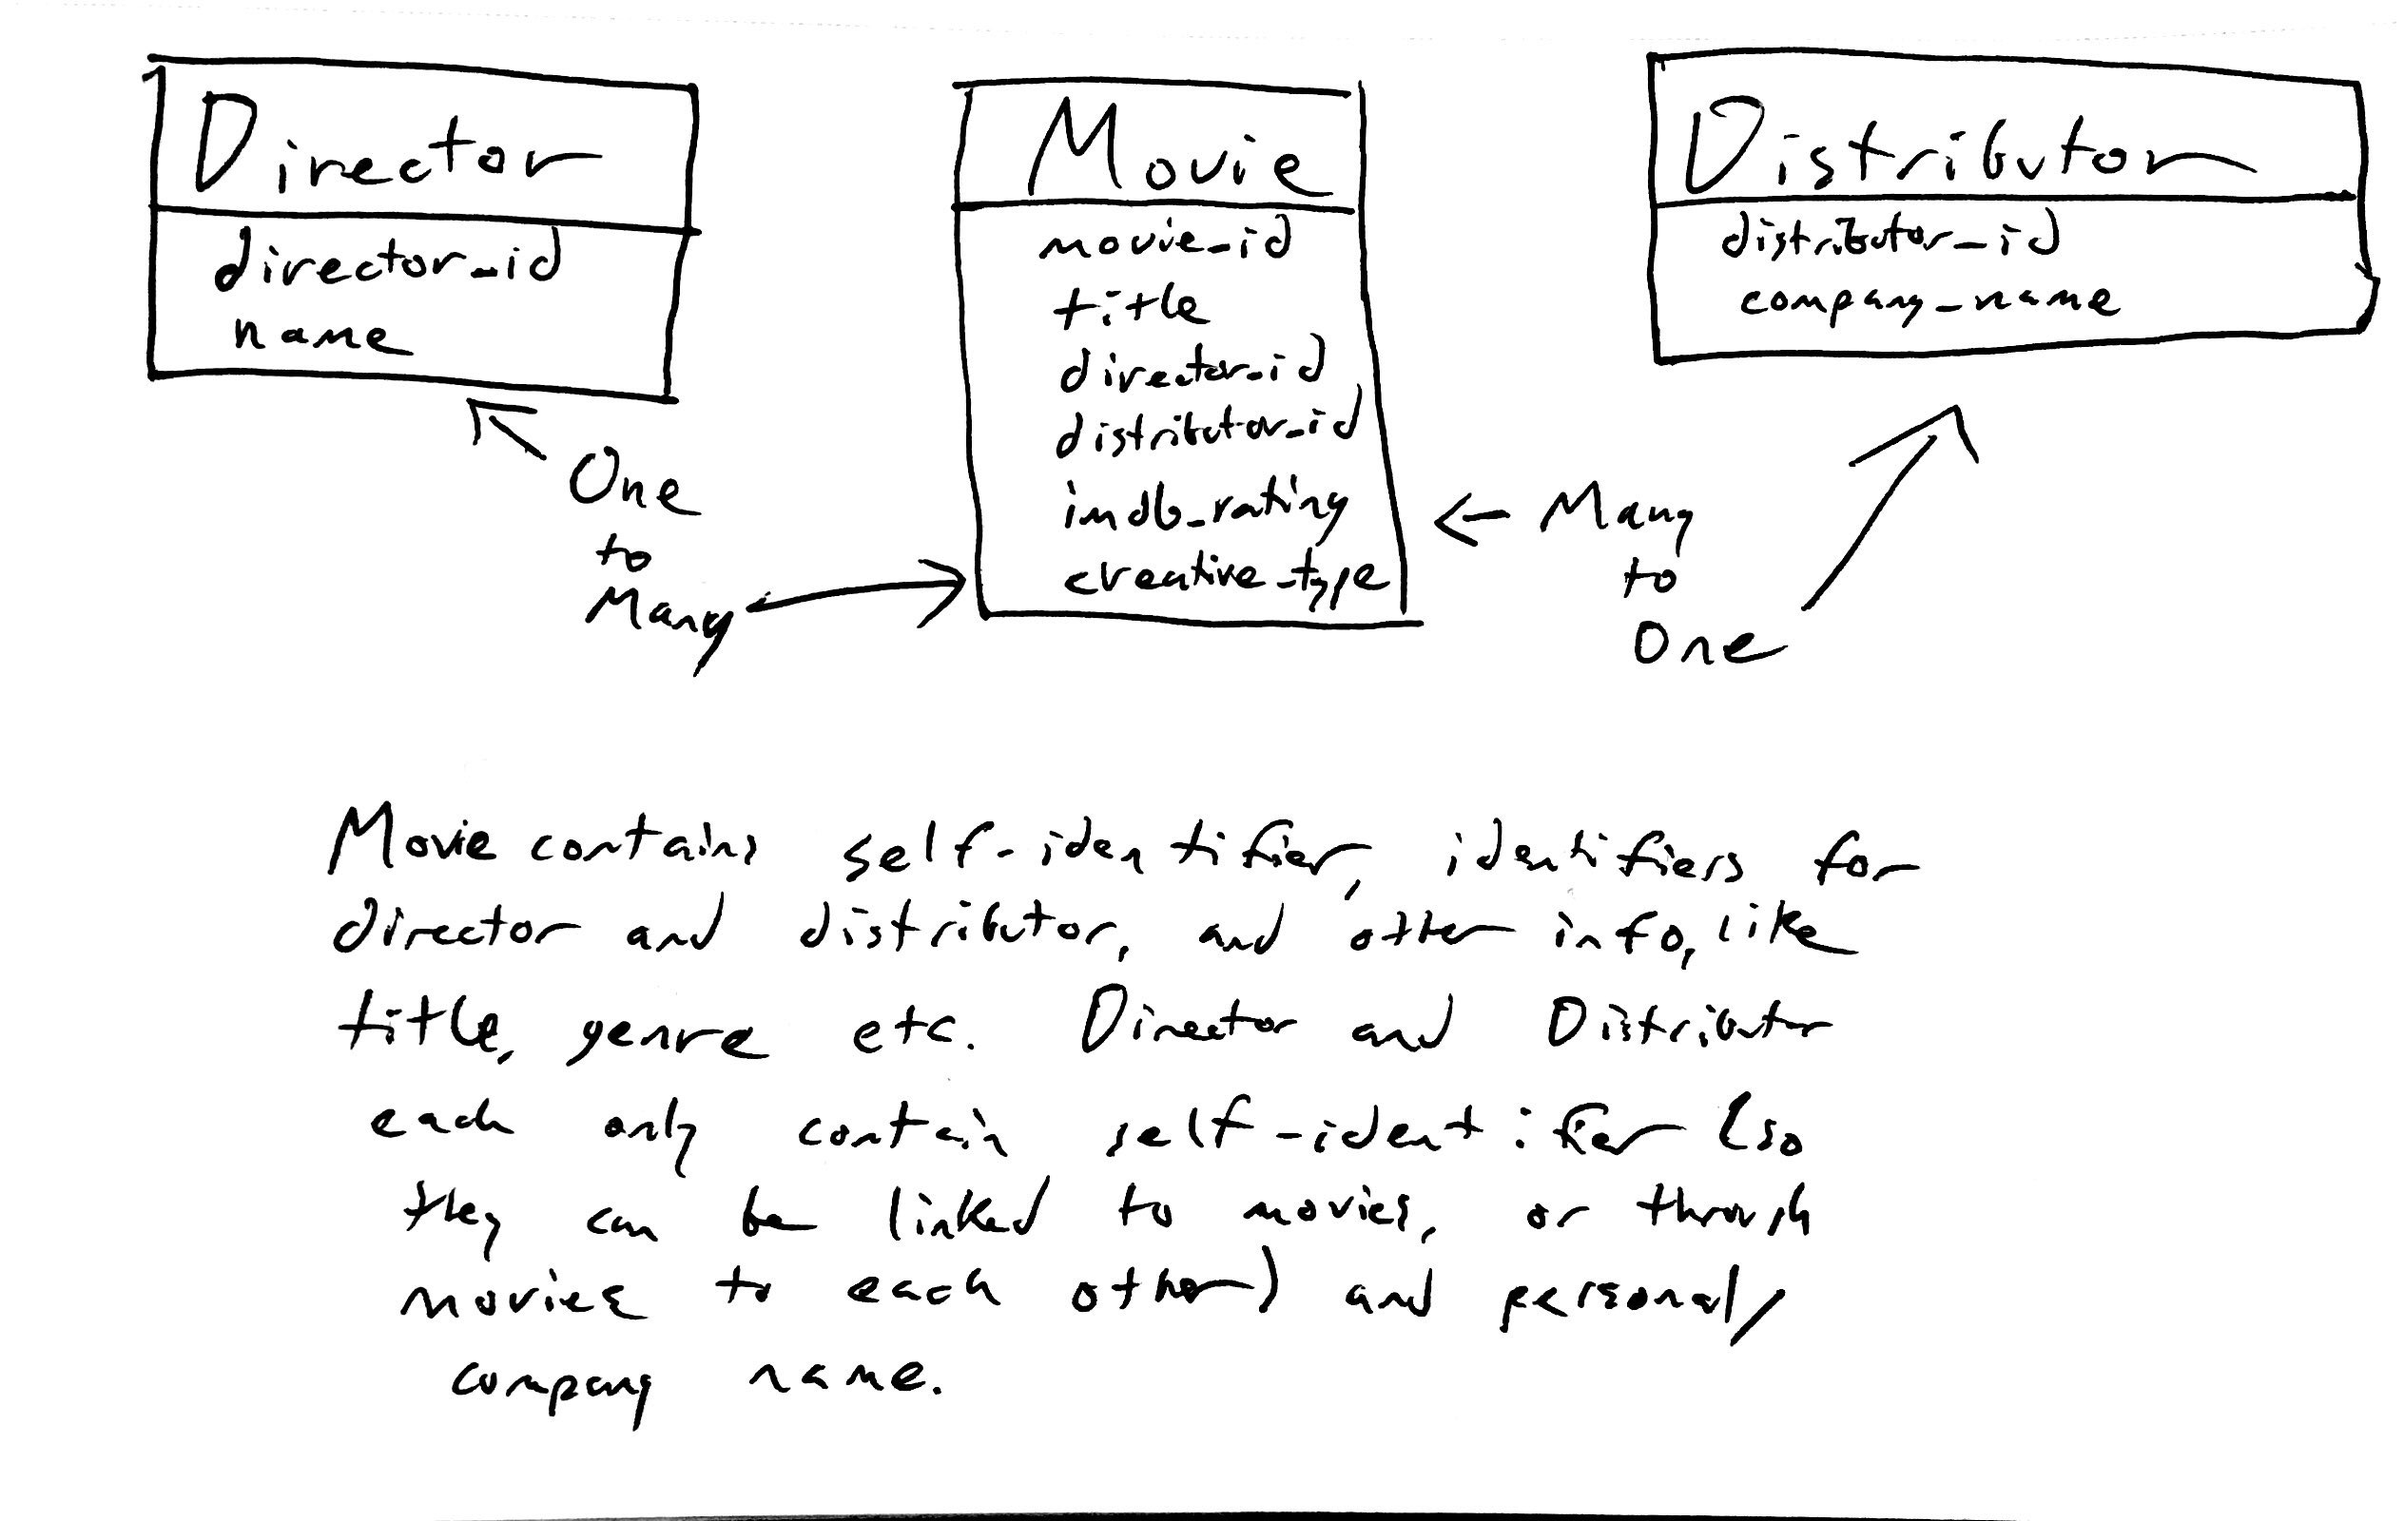
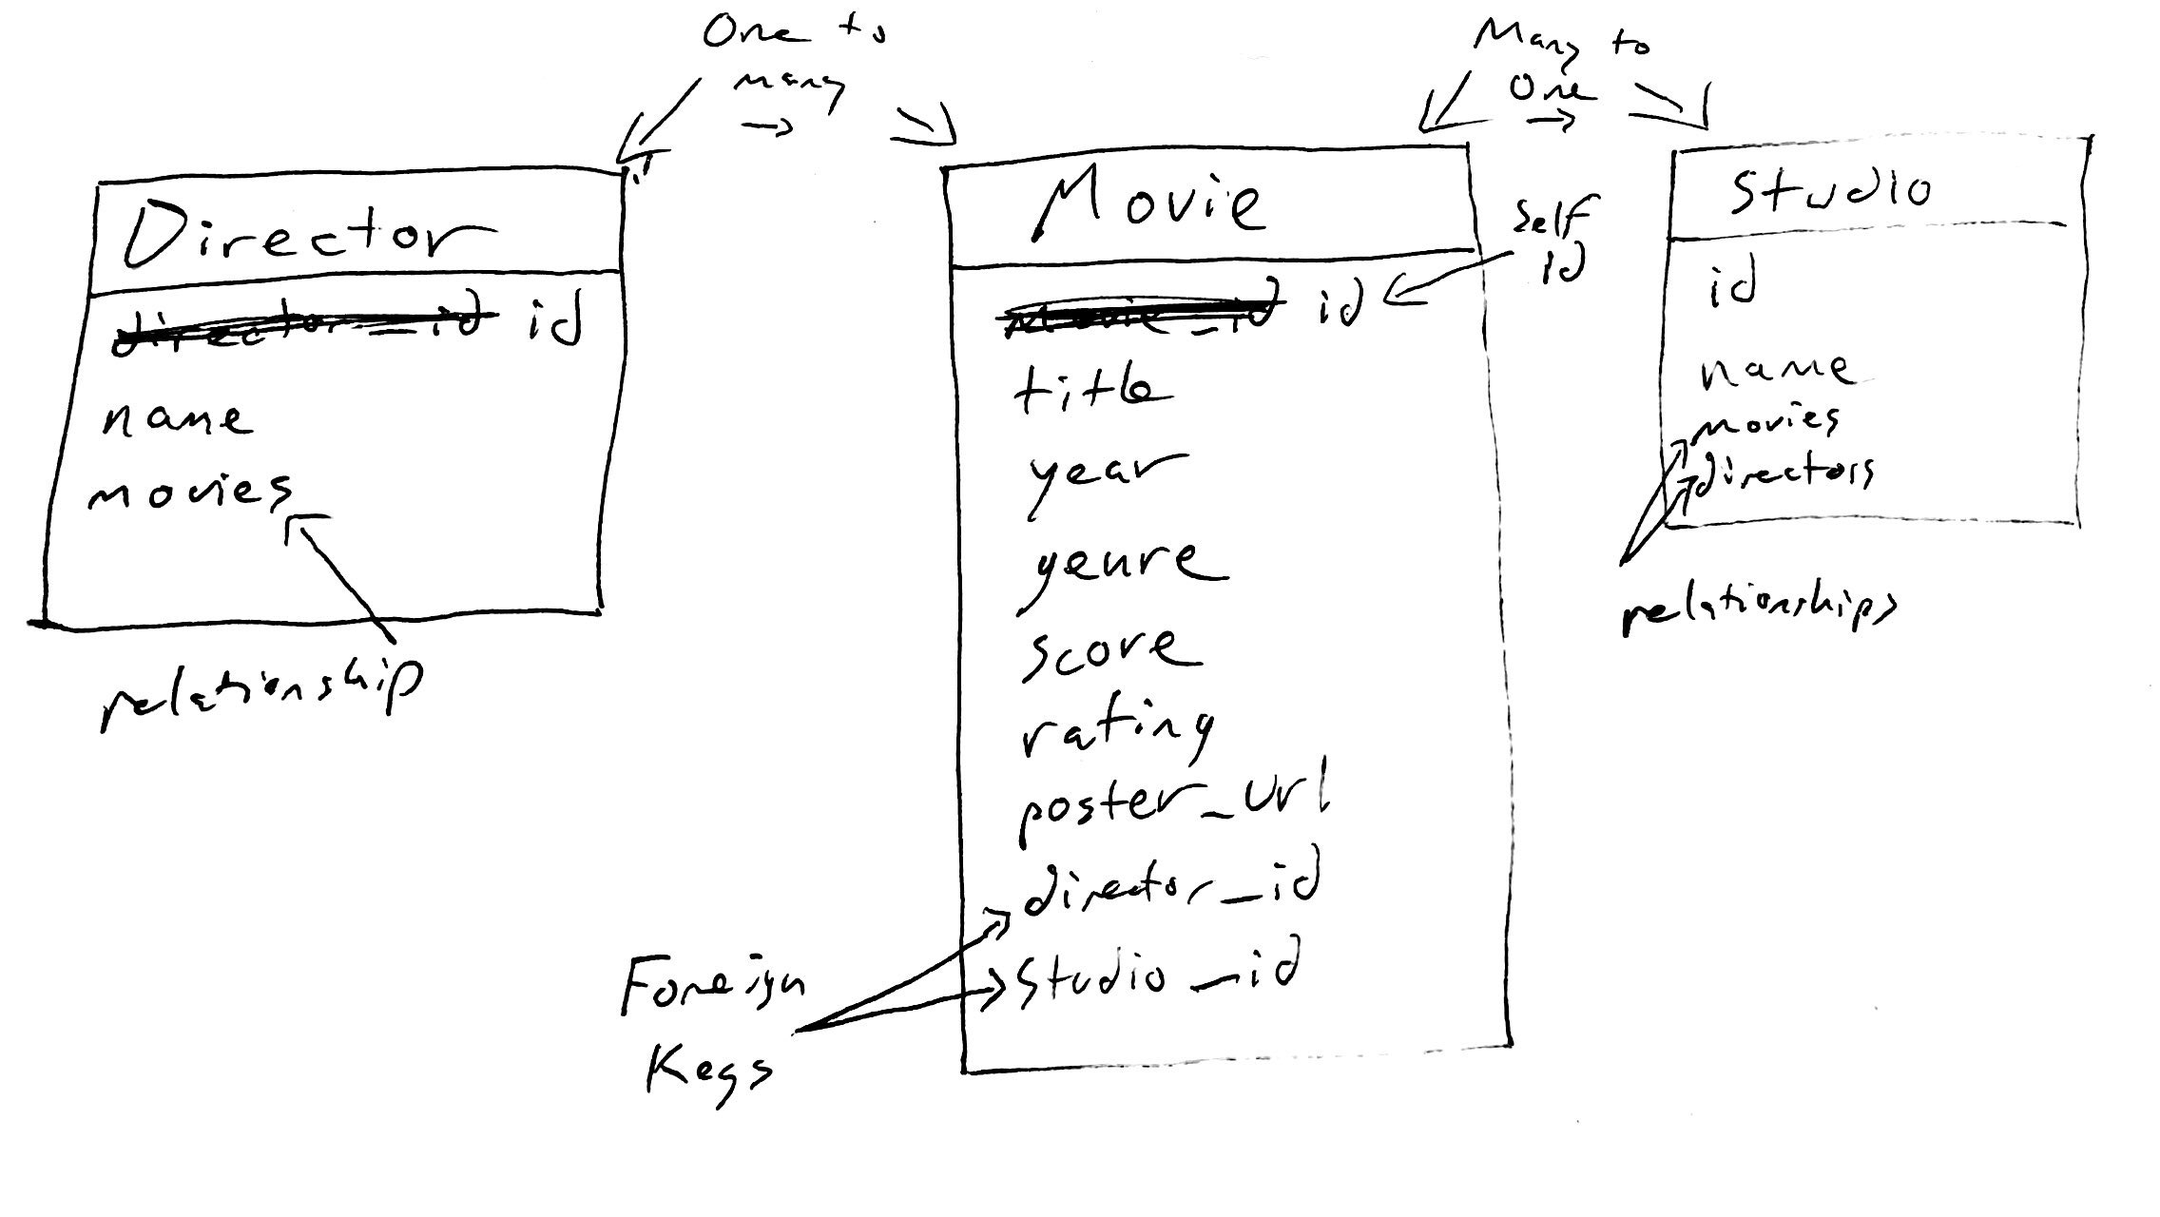
testing markdown images, adding database diagram

diff --git a/README.md b/README.md
@@ -19,9 +19,9 @@ This project takes data about films from the OMDB API and puts it into a SQLAlch
 
 ## How to use
 
-1. Click 'Add a film' on the homepage.
-2. Type in the title of the film you would like to add. Your search term does not have to match the title exactly, but the closer it is to how the title is written on IMDB, the more likely you are to get the result you are looking for, and any misspellings will likely result in no film being added.
-3. You can optionally add the year of release to narrow down results (particularly helpful in cases where there are multiple films with very similar or identical titles, such as 'Titanic' (1997) and 'Titanic' (1953)). The search will still run normally without this parameter and it is not necessary for more specific titles such as 'Pulp Fiction'.
+1. Click 'Add a film' on the homepage. ![How the homepage should looks](homepage.png)
+2. Type in the title of the film you would like to add. Your search term does not have to match the title exactly, but the closer it is to how the title is written on IMDB, the more likely you are to get the result you are looking for, and any misspellings will likely result in no film being added. (add page: https://imgur.com/bPst441)
+3. You can optionally add the year of release to narrow down results (particularly helpful in cases where there are multiple films with very similar or identical titles, such as 'Titanic' (1997) and 'Titanic' (1953)). The search will still run normally without this parameter and it is not necessary for more specific titles such as 'Pulp Fiction'. (the message you should get if the film was added: https://imgur.com/bOVQk3k)
 4. Hit 'Submit' when you are ready to run the search. If your search did not return any results, nothing will be added to the database and you will be given the opportunity to run another search or return to the homepage. Otherwise, the first result will automatically be added to the database if it was not yet saved in it. If it was already in the database, a duplicate will not be added.
 5. The homepage will display the number of films that are currently stored in the database. From here, you can click 'View all films', 'View all directors', and 'View all studios'.
 6. On the 'View all films' page, it will show a list of all films stored in the database with thumbnails of their posters and all data stored about each one.
@@ -72,7 +72,7 @@ Below is a list of the requirements listed in the rubric for you to copy and pas
 - [x] Includes a `requirements.txt` file containing all required modules to run program
 - [x] Includes a clear and readable README.md that follows this template
 - [x] Includes a sample .sqlite/.db file
-- [ ] Includes a diagram of your database schema
+- [x] Includes a diagram of your database schema
 - [x] Includes EVERY file needed in order to run the project
 - [ ] Includes screenshots and/or clear descriptions of what your project should look like when it is working
 
